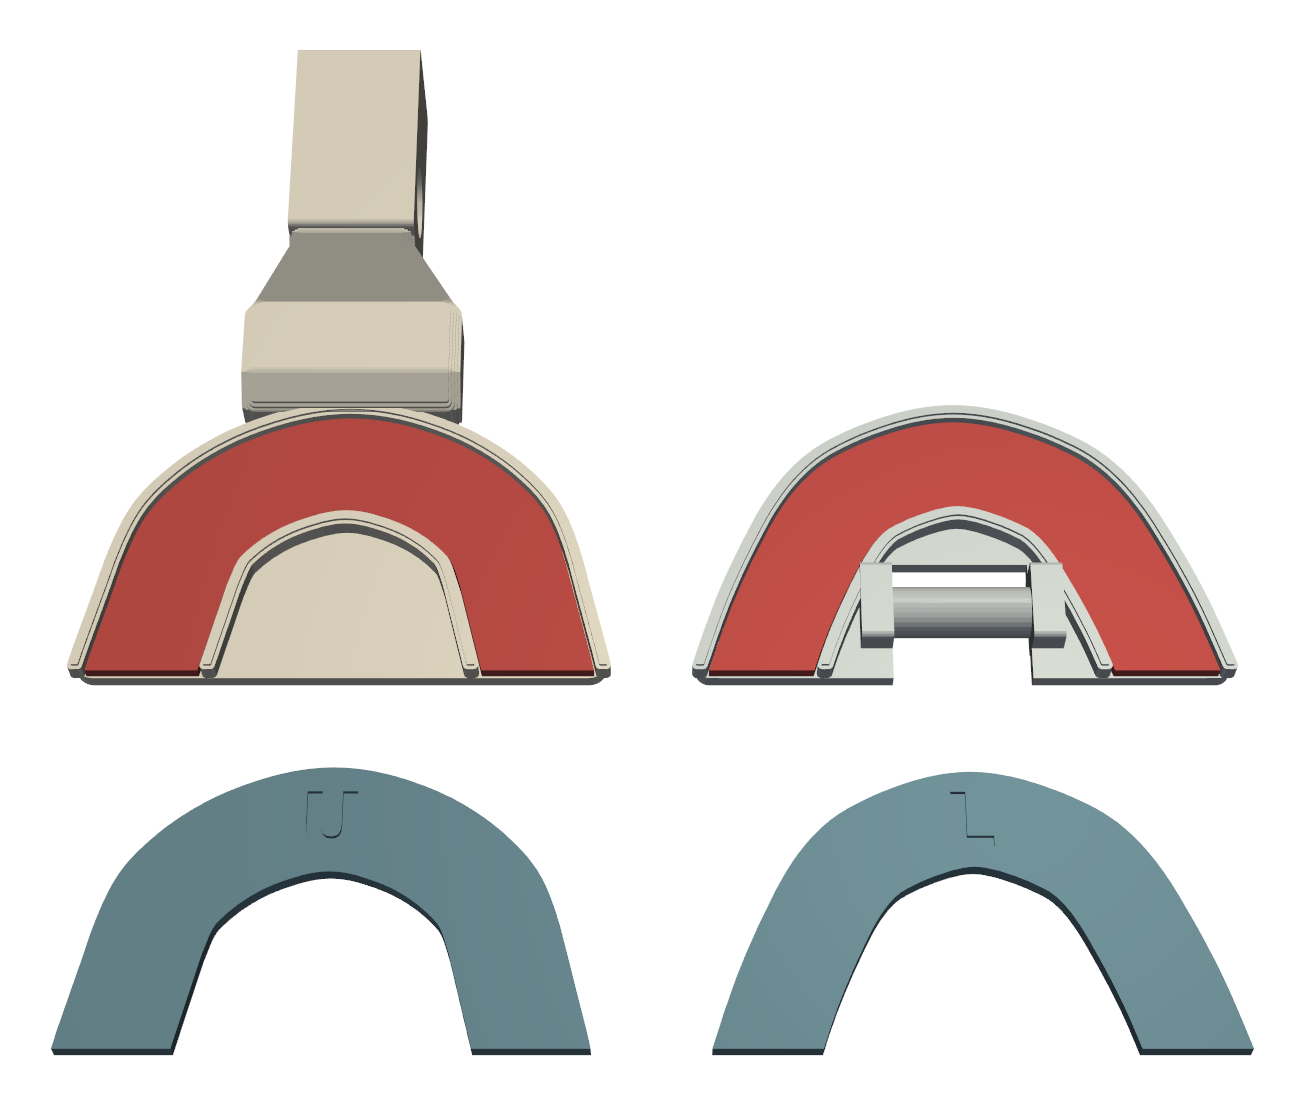
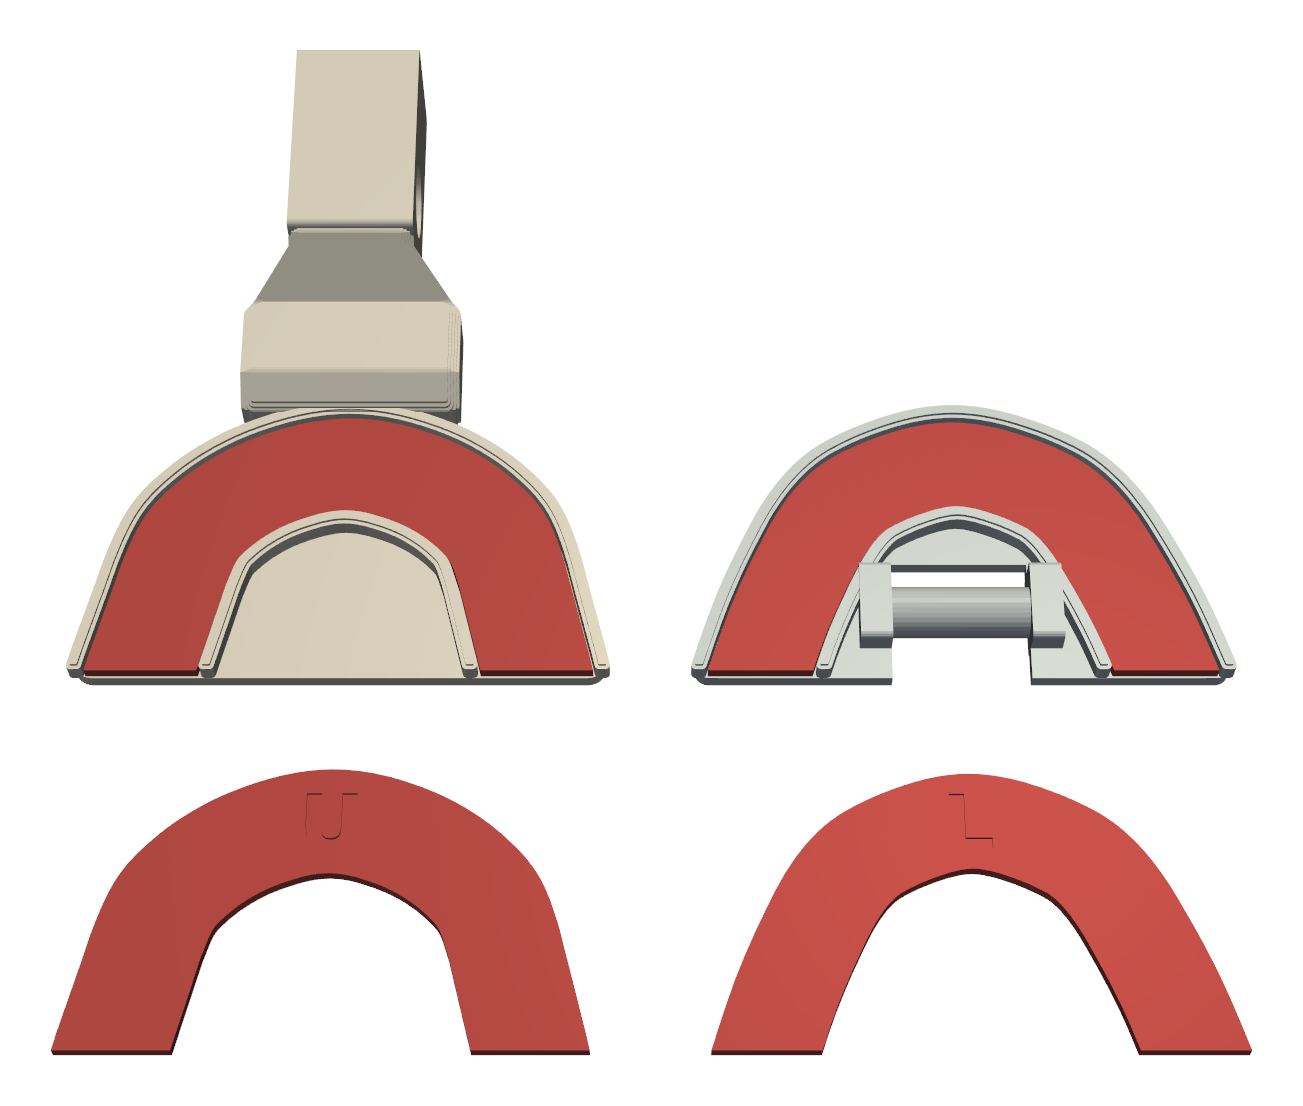
Make the pad shapes printable in TPU as well as usable as templates
tooth_pads.stl replaces pad_templates.stl: at pad thickness it is the
pad itself when printed in TPU and still a cutting template otherwise.
The guide no longer rules out adhesive-backed sheet.

diff --git a/make.py b/make.py
@@ -44,7 +44,7 @@ def printable_parts() -> dict[str, Manifold]:
         "limit_screw": parts.limit_screw(d),
         "limit_nut": parts.limit_nut(d),
         "pivot_pin_print_2": parts.snap_pin(d.base_width_mm, d),
-        "pad_templates": parts.pad_templates(d),
+        "tooth_pads": parts.tooth_pads(d),
     }
 
 
@@ -139,7 +139,7 @@ def write_renders(assembly: Assembly, laid_out: dict[str, Manifold]):
     # the printable parts spread out, seen from above
     spread, x = {}, 0.0
     for name, solid in laid_out.items():
-        if name == "pad_templates":  # optional, shown with the pads instead
+        if name == "tooth_pads":  # optional, shown in their own picture
             continue
         x_min, y_min, _, x_max, y_max, _ = solid.bounding_box()
         key = {"base": "base", "lever": "lever", "upper_mouthpiece": "upper", "lower_tray": "lower", "limit_screw": "screw"}.get(name, "nut" if name == "limit_nut" else "pin")
@@ -167,16 +167,16 @@ def _write_tray_fitting(assembly: Assembly):
         render({"lever": assembly.lever_closed, "lower": tray}, str(IMAGE_DIR / f"{name}.png"), "iso", size=(1100, 800), zoom=1.0, camera=[(hinge[0] - 95, -120, hinge[1] + 70), (hinge[0] + 8, 0, hinge[1] - 4), (0, 0, 1)])
 
 
-def _write_pads(pad_thickness_mm: float = 1.5):
-    """Both trays, rims up, with a pad in the tooth channel and the template it is cut round in front."""
-    pads = {letter: geom.extrude(shape, 0, pad_thickness_mm) for letter, shape in parts.tooth_pad_shapes(d).items()}
+def _write_pads():
+    """Both trays, rims up, with a pad in the tooth channel, and the pads as printed in front."""
+    pads = {letter: geom.extrude(shape, 0, d.pad_thickness_mm) for letter, shape in parts.tooth_pad_shapes(d).items()}
     trays = {"U": ("upper", parts.upper_mouthpiece(d)), "L": ("lower", parts.lower_tray(d).rotate((180, 0, 0)))}
     scene, pitch_mm = {}, 66.0
     for i, (letter, (colour_key, tray)) in enumerate(trays.items()):
         y = -i * pitch_mm
         scene[f"{colour_key}_{letter}"] = tray.translate((0, y, 0))
-        scene[f"pad_{letter}"] = pads[letter].translate((0, y, 0))
-        scene[f"template_{letter}"] = parts.pad_template(letter, d).translate((-42, y, 0))
+        scene[f"pad_{letter}_fitted"] = pads[letter].translate((0, y, 0))
+        scene[f"pad_{letter}_printed"] = parts.tooth_pad(letter, d).translate((-42, y, 0))
     centre = (-12, -pitch_mm / 2, 0)
     render(scene, str(IMAGE_DIR / "pads.png"), "iso", size=(1600, 1300), zoom=1.0, camera=[(centre[0] - 165, centre[1], 320), centre, (1, 0, 0)])
     _trim_margins(IMAGE_DIR / "pads.png")

diff --git a/parts.py b/parts.py
@@ -106,28 +106,28 @@ def tooth_channel(arch, channel_width_mm: float, d: Design = DESIGN):
     return _clip_rear(_arch_centreline(arch, d.tray_depth_mm).buffer(channel_width_mm / 2), d.tray_depth_mm)
 
 
-PAD_TEMPLATE_THICKNESS_MM = 2.0
-
-
 def tooth_pad_shapes(d: Design = DESIGN) -> dict[str, Polygon]:
-    """Plan shape of the pad for each tray, keyed by the letter engraved on its template."""
+    """Plan shape of the pad for each tray, keyed by the letter engraved on it."""
     channels = {"U": tooth_channel(d.upper_arch, d.upper_channel_width_mm, d), "L": tooth_channel(d.lower_arch, d.lower_channel_width_mm, d)}
     return {letter: channel.buffer(-d.pad_to_rim_gap_mm) for letter, channel in channels.items()}
 
 
-def pad_template(letter: str, d: Design = DESIGN) -> Manifold:
-    """Plate to trace round when cutting a tooth pad from sheet, in the frame of its tray."""
+def tooth_pad(letter: str, d: Design = DESIGN) -> Manifold:
+    """Pad for one tray, in the frame of that tray: printed soft, or printed hard as a template for cutting sheet.
+
+    The lettered face goes against the tray, so the teeth get the smooth face off the bed.
+    """
     pad = tooth_pad_shapes(d)[letter]
     label = shapely.affinity.rotate(geom.text_shape(letter, 6.0), -90, origin=(0, 0))  # upright with the front teeth at the top
     x_min, y_min, x_max, y_max = label.bounds
     label = shapely.affinity.translate(label, -(x_min + x_max) / 2, -(y_min + y_max) / 2)
-    return geom.extrude(pad, 0, PAD_TEMPLATE_THICKNESS_MM) - geom.extrude(label, PAD_TEMPLATE_THICKNESS_MM - 0.6, PAD_TEMPLATE_THICKNESS_MM + 1)
+    return geom.extrude(pad, 0, d.pad_thickness_mm) - geom.extrude(label, d.pad_thickness_mm - 0.4, d.pad_thickness_mm + 1)
 
 
-def pad_templates(d: Design = DESIGN) -> Manifold:
-    """Both pad templates side by side, as printed."""
+def tooth_pads(d: Design = DESIGN) -> Manifold:
+    """Both pads side by side, as printed."""
     pitch_mm = max(pad.bounds[3] - pad.bounds[1] for pad in tooth_pad_shapes(d).values()) + 4
-    return geom.union([pad_template(letter, d).translate((0, i * pitch_mm, 0)) for i, letter in enumerate(tooth_pad_shapes(d))])
+    return geom.union([tooth_pad(letter, d).translate((0, i * pitch_mm, 0)) for i, letter in enumerate(tooth_pad_shapes(d))])
 
 
 def _plate(shape, z_back: float, z_tooth_side: float) -> Manifold:

diff --git a/design.py b/design.py
@@ -53,7 +53,8 @@ class Design:
     tray_depth_mm: float = 25.0  # how far the trays reach back from the incisal edge
     upper_channel_width_mm: float = 12.0
     lower_channel_width_mm: float = 11.0
-    pad_to_rim_gap_mm: float = 0.2  # all round a pad cut exactly to its template
+    pad_thickness_mm: float = 1.5
+    pad_to_rim_gap_mm: float = 0.2  # all round the pad
     # dental arch through the tooth centres: (depth behind the incisal edge, half-width)
     upper_arch: tuple[tuple[float, float], ...] = ((0, 0), (1, 5.5), (3, 10), (6, 14), (9, 16.5), (13, 18), (17, 19), (21, 20), (25, 21), (30, 22))
     lower_arch: tuple[tuple[float, float], ...] = ((0, 0), (1, 5), (2.5, 8.5), (4, 11), (6, 13), (9, 15), (12, 16.5), (16, 18.3), (19, 19.5), (25, 21.5), (30, 23))

diff --git a/render.py b/render.py
@@ -5,7 +5,7 @@ import pyvista as pv
 from manifold3d import Manifold
 
 pv.OFF_SCREEN = True
-COLOURS = {"base": "#3b6ea5", "lever": "#e08a2e", "upper": "#e8e4d8", "lower": "#cfd8dc", "screw": "#7a8c3a", "nut": "#7a8c3a", "pin": "#444444", "pad": "#c0504d", "template": "#6b8e9e"}
+COLOURS = {"base": "#3b6ea5", "lever": "#e08a2e", "upper": "#e8e4d8", "lower": "#cfd8dc", "screw": "#7a8c3a", "nut": "#7a8c3a", "pin": "#444444", "pad": "#c0504d"}
 
 
 def to_polydata(solid: Manifold) -> pv.PolyData:

diff --git a/docs/index.md b/docs/index.md
@@ -34,7 +34,7 @@ They are already turned the right way up, and none needs supports.
 | `limit_screw.stl` | 1 | Standing on its knob. Add a brim |
 | `limit_nut.stl` | 1 | Flat |
 | `pivot_pin_print_2.stl` | 2 | Lying on its flat. Print a spare |
-| `pad_templates.stl` | Optional | Flat. Only needed for cutting [pads](#pads) |
+| `tooth_pads.stl` | Optional | Flat. See [Pads](#pads) |
 
 ![All the parts as they lie on the bed](images/print_layout.png)
 
@@ -100,25 +100,36 @@ It is optional.
 ### Pads
 
 Bare PETG suits some teeth and not others.
-If it feels hard, cut a soft pad for each tray.
+If it feels hard, add a soft pad to each tray.
+`tooth_pads.stl` holds the two pad shapes, marked U for the upper tray and L for the lower, and there are two ways to use it.
 
-![Each tray with a pad in its channel, and the template the pad is cut round](images/pads.png)
+![Each tray with a pad in its channel, and the two pads as printed](images/pads.png)
 
-1. Print `pad_templates.stl`.
-   It holds two flat templates, marked U for the upper tray and L for the lower.
-2. Lay a template on the sheet, trace round it with a fine pen and cut along the line with sharp scissors.
-3. Press each pad into its channel, between the rims.
-   Nothing but the fit holds it, so it lifts out for washing.
-   If a pad is loose, cut the next one just outside the line.
+**Print the pads.**
+Print `tooth_pads.stl` in TPU and press each pad into its channel between the rims, letter side down.
+The usual 95A TPU is firm; 85A is softer.
 
-Sheet to cut them from:
+**Cut the pads from sheet.**
+Print `tooth_pads.stl` in any material and use the two prints as templates.
+
+1. Lay a template on the sheet, trace round it with a fine pen and cut along the line with sharp scissors.
+2. Press each pad into its channel.
+   If it is loose, cut the next one just outside the line.
 
 | Sheet | Notes |
 | --- | --- |
-| Food-grade silicone, 1.5 mm (1/16 in), about 50A hardness, no adhesive backing | Soft and grippy. Look for one that cites FDA 21 CFR 177.2600 |
-| Soft EVA sold for dental thermoforming ("soft splint" sheets), 1.5 to 2 mm | Made for use in the mouth, but firmer |
+| Food-grade silicone, 1.5 mm (1/16 in), about 50A hardness | The softest option. Look for one that cites FDA 21 CFR 177.2600 |
+| Soft EVA sold for dental thermoforming ("soft splint" sheets), 1.5 to 2 mm | Made for use in the mouth, but about as firm as TPU |
 
-* Avoid adhesive-backed sheet: the glue is not rated for contact with food or the mouth.
+Silicone sheet comes plain or with an adhesive backing.
+
+* Plain sheet is held by the fit alone and lifts out for washing.
+* Adhesive-backed sheet stays put better.
+  Trace on its liner, and stick it to a clean, dry tray the day before you use it, because the bond takes hours to build.
+  Its glue is not rated for contact with food, though only the edge of the glue line is exposed.
+
+Whichever you use:
+
 * Pads add twice their thickness to the real opening, and to the 13 mm you need to get the device in.
 * Check both pads are seated before every use and replace a torn one.
   A loose piece in the mouth is a choking hazard.

diff --git a/publishing/listing.md b/publishing/listing.md
@@ -35,7 +35,7 @@ Squeeze the handles and the two mouthpieces push your teeth apart, gently and un
 • Everything is printed: eight parts, no screws, no springs, no supports.
 
 PRINTING
-PETG, 0.2 mm layers, 5 walls, 25 % infill or more. All parts are already oriented. Print two pivot pins. pad_templates.stl is optional: it is a cutting template for soft tooth pads (see the guide).
+PETG, 0.2 mm layers, 5 walls, 25 % infill or more. All parts are already oriented. Print two pivot pins. tooth_pads.stl is optional: soft tooth pads to print in TPU, or templates for cutting them from silicone sheet (see the guide).
 
 FULL GUIDE (assembly, setting the limit, use, troubleshooting):
 https://nocnokneo.github.io/open-wide/
